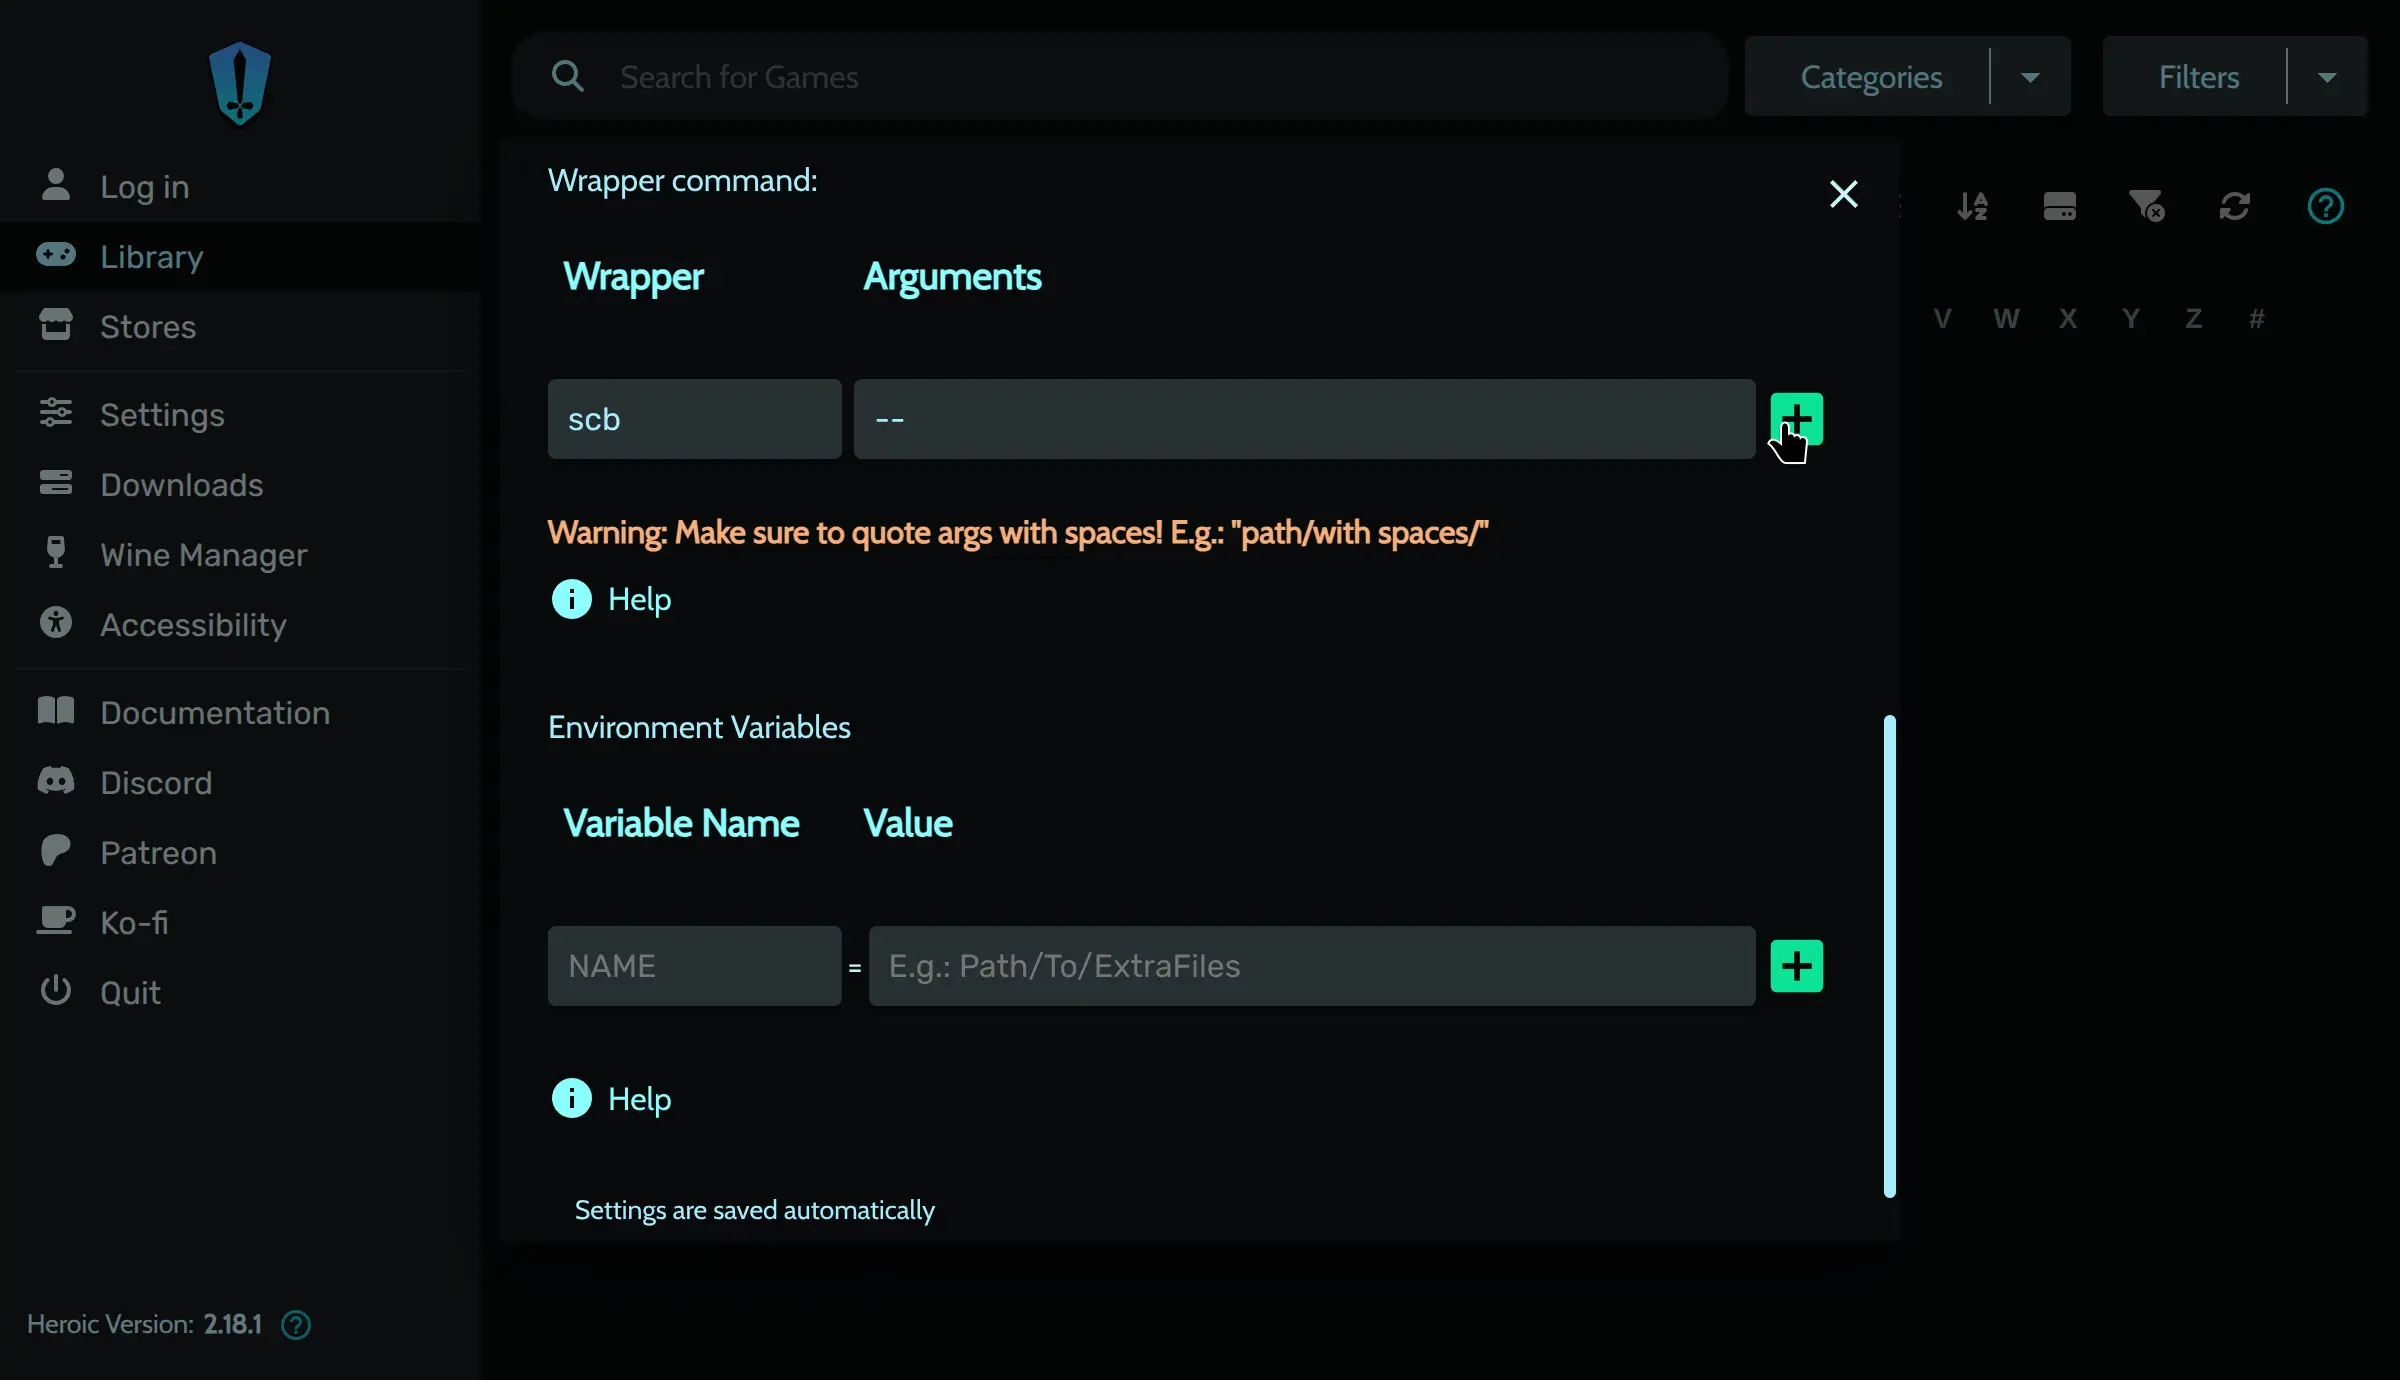
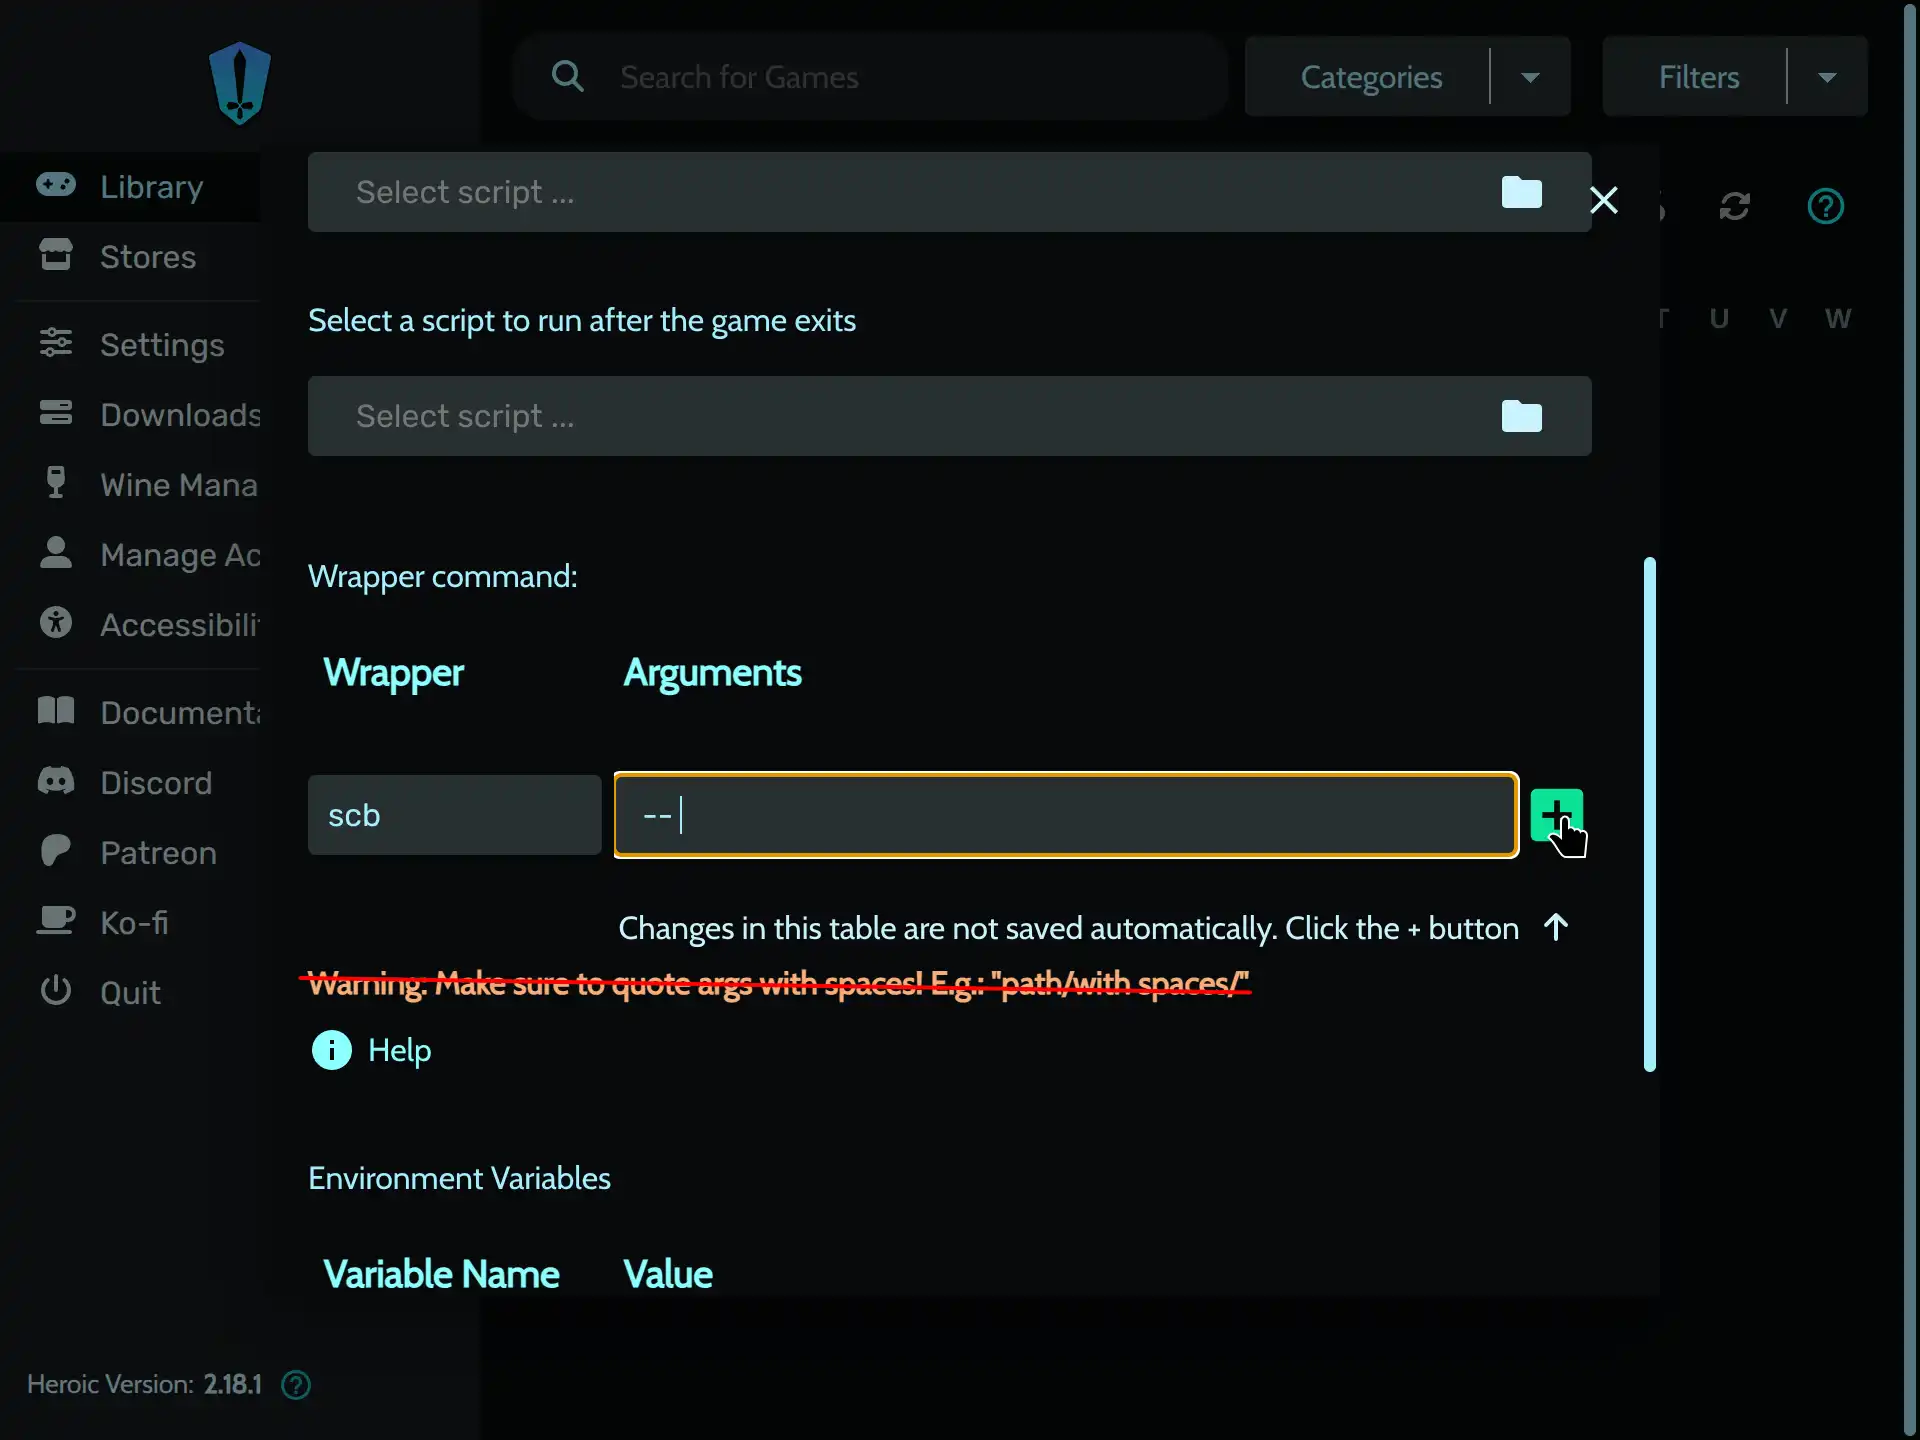
update the images to the new standard (and update them with SCB_APPID)

diff --git a/images/_IMAGES.md b/images/_IMAGES.md
@@ -1,4 +1,4 @@
-Image size: 960x720 (take screenshots with 100% desktop scaling)
+Image size: 1920x1440 (set forced window size on KDE to 960x720, take screenshots with 200% desktop scaling)
 
 If the titlebar is integrated into the UI (like Lutris), include it. Otherwise (like Heroic), do not.
 
